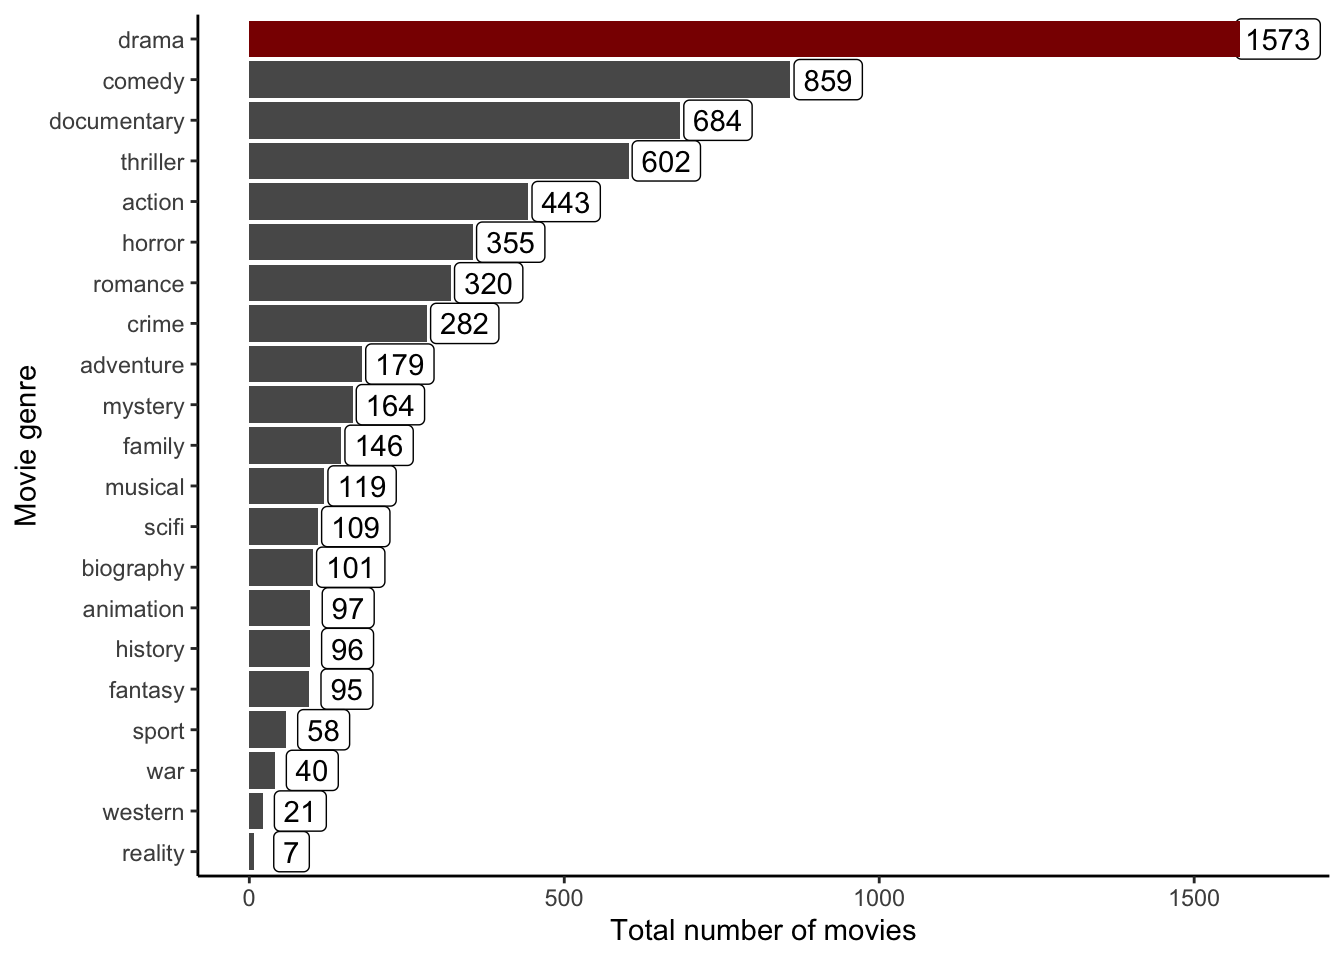
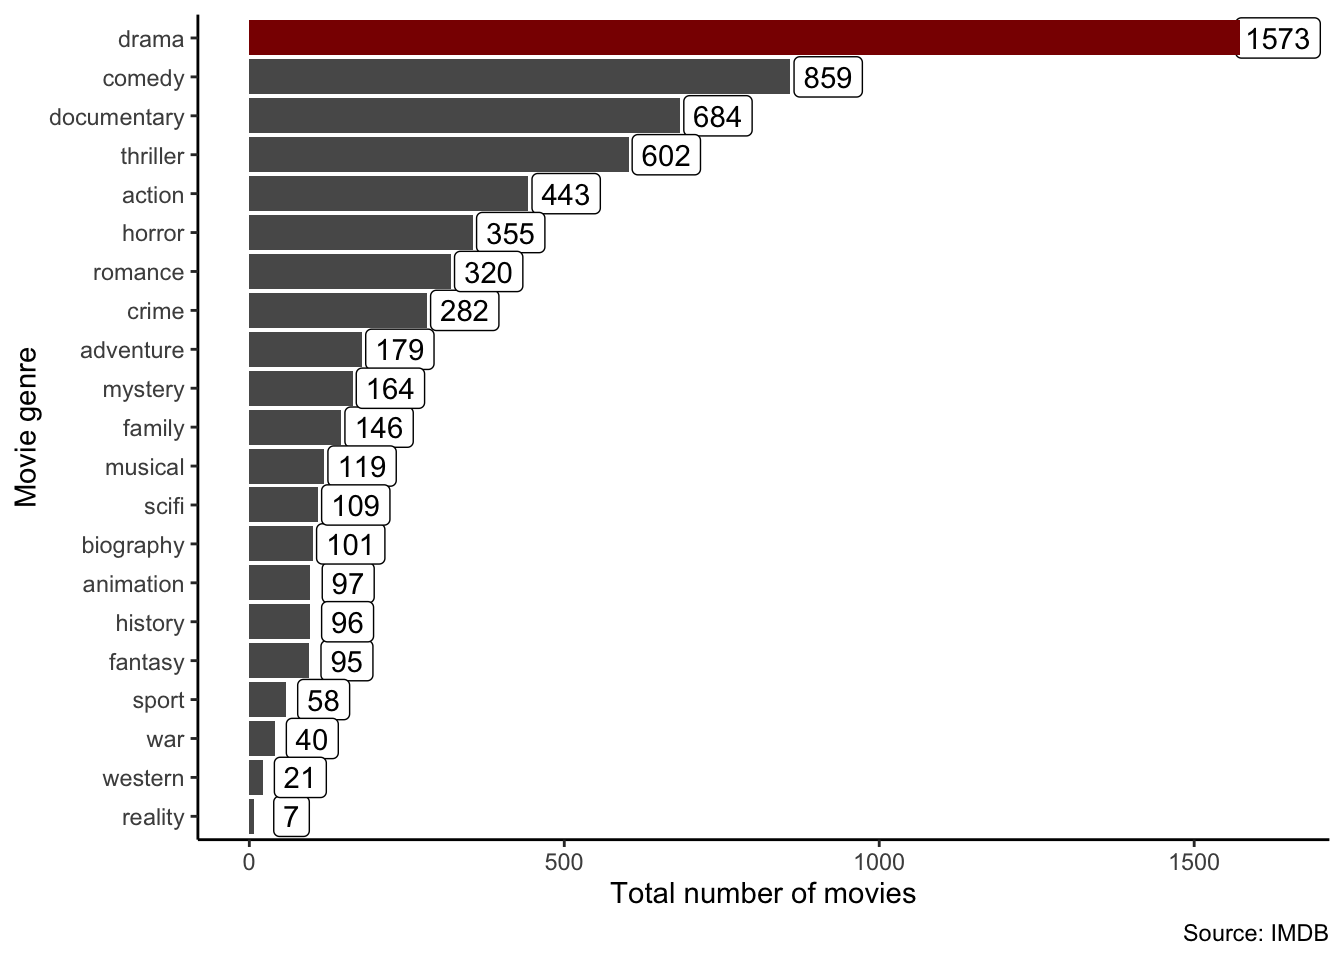
Average rating distribution explained

Changed region(s): [[0.0312, 0.0312, 1.0, 1.0], [0.0, 0.3438, 0.0312, 0.5625], [0.9062, 0.0, 0.9688, 0.0625]]

diff --git a/Q2.html b/Q2.html
@@ -208,7 +208,7 @@ Question C
 <span id="cb3-5"><a href="#cb3-5" aria-hidden="true" tabindex="-1"></a>pl1 <span class="ot">&lt;-</span> <span class="fu">ggplot</span>(<span class="at">data =</span> df_genre_long,<span class="fu">aes</span>(<span class="at">x =</span> <span class="fu">reorder</span>(Genre,</span>
 <span id="cb3-6"><a href="#cb3-6" aria-hidden="true" tabindex="-1"></a>                                                   Total_movies),</span>
 <span id="cb3-7"><a href="#cb3-7" aria-hidden="true" tabindex="-1"></a>                                       <span class="at">y =</span>Total_movies)) <span class="sc">+</span> <span class="fu">geom_col</span>() <span class="sc">+</span> <span class="fu">coord_flip</span>() <span class="sc">+</span> </span>
-<span id="cb3-8"><a href="#cb3-8" aria-hidden="true" tabindex="-1"></a>  <span class="fu">geom_label</span>(<span class="fu">aes</span>(<span class="at">label =</span> Total_movies),<span class="at">nudge_y =</span> <span class="dv">60</span>) <span class="sc">+</span> <span class="fu">geom_col</span>(<span class="at">data =</span> <span class="sc">~</span><span class="fu">filter</span>(.x, Genre <span class="sc">==</span> <span class="st">"drama"</span>),<span class="at">fill=</span><span class="st">'darkred'</span>) <span class="sc">+</span> <span class="fu">theme_classic</span>() <span class="sc">+</span> <span class="fu">labs</span>(<span class="at">x =</span> <span class="st">"Movie genre"</span>,<span class="at">y =</span> <span class="st">"Total number of movies"</span>)</span>
+<span id="cb3-8"><a href="#cb3-8" aria-hidden="true" tabindex="-1"></a>  <span class="fu">geom_label</span>(<span class="fu">aes</span>(<span class="at">label =</span> Total_movies),<span class="at">nudge_y =</span> <span class="dv">60</span>) <span class="sc">+</span> <span class="fu">geom_col</span>(<span class="at">data =</span> <span class="sc">~</span><span class="fu">filter</span>(.x, Genre <span class="sc">==</span> <span class="st">"drama"</span>),<span class="at">fill=</span><span class="st">'darkred'</span>) <span class="sc">+</span> <span class="fu">theme_classic</span>() <span class="sc">+</span> <span class="fu">labs</span>(<span class="at">x =</span> <span class="st">"Movie genre"</span>,<span class="at">y =</span> <span class="st">"Total number of movies"</span>) <span class="sc">+</span> <span class="fu">labs</span>(<span class="at">caption =</span> <span class="st">"Source: IMDB"</span>)</span>
 <span id="cb3-9"><a href="#cb3-9" aria-hidden="true" tabindex="-1"></a>pl1</span></code><button title="Copy to Clipboard" class="code-copy-button"><i class="bi"></i></button></pre></div>
 <div class="cell-output-display">
 <div id="fig-bar" class="quarto-figure quarto-figure-center anchored">
@@ -255,30 +255,41 @@ Question D
 <div class="cell">
 <div class="sourceCode cell-code" id="cb6"><pre class="sourceCode r code-with-copy"><code class="sourceCode r"><span id="cb6-1"><a href="#cb6-1" aria-hidden="true" tabindex="-1"></a>df_genre_long_rating<span class="sc">$</span>Average_rating <span class="ot">&lt;-</span> <span class="fu">round</span>(df_genre_long_rating<span class="sc">$</span>Average_rating,<span class="dv">1</span>)</span>
 <span id="cb6-2"><a href="#cb6-2" aria-hidden="true" tabindex="-1"></a></span>
-<span id="cb6-3"><a href="#cb6-3" aria-hidden="true" tabindex="-1"></a><span class="fu">ggdotchart</span>(df_genre_long_rating, <span class="at">y =</span> <span class="st">"Average_rating"</span>, </span>
-<span id="cb6-4"><a href="#cb6-4" aria-hidden="true" tabindex="-1"></a>           <span class="at">x =</span> <span class="st">"Genre"</span>,</span>
-<span id="cb6-5"><a href="#cb6-5" aria-hidden="true" tabindex="-1"></a>           <span class="at">color =</span> <span class="st">"Genre"</span>,                       </span>
-<span id="cb6-6"><a href="#cb6-6" aria-hidden="true" tabindex="-1"></a>           <span class="at">add =</span> <span class="st">"segments"</span>,</span>
-<span id="cb6-7"><a href="#cb6-7" aria-hidden="true" tabindex="-1"></a>           <span class="at">add.params =</span> <span class="fu">list</span>(<span class="at">color =</span> <span class="st">"lightgray"</span>, <span class="at">size =</span> <span class="dv">2</span>),                             </span>
-<span id="cb6-8"><a href="#cb6-8" aria-hidden="true" tabindex="-1"></a>           <span class="at">dot.size =</span> <span class="dv">8</span>,</span>
-<span id="cb6-9"><a href="#cb6-9" aria-hidden="true" tabindex="-1"></a>           <span class="at">rotate=</span><span class="cn">TRUE</span>,</span>
-<span id="cb6-10"><a href="#cb6-10" aria-hidden="true" tabindex="-1"></a>           <span class="at">label =</span> <span class="st">"Average_rating"</span>,</span>
-<span id="cb6-11"><a href="#cb6-11" aria-hidden="true" tabindex="-1"></a>           <span class="at">group =</span> <span class="st">"Genre"</span>,                                </span>
-<span id="cb6-12"><a href="#cb6-12" aria-hidden="true" tabindex="-1"></a>           <span class="at">font.label =</span> <span class="fu">list</span>(<span class="at">color =</span> <span class="st">"black"</span>, <span class="at">size =</span> <span class="dv">7</span>, </span>
-<span id="cb6-13"><a href="#cb6-13" aria-hidden="true" tabindex="-1"></a>                             <span class="at">vjust =</span> <span class="dv">0</span>, <span class="at">face =</span> <span class="st">'bold'</span>),               </span>
-<span id="cb6-14"><a href="#cb6-14" aria-hidden="true" tabindex="-1"></a>           <span class="at">ggtheme =</span> <span class="fu">theme_economist</span>()                        </span>
-<span id="cb6-15"><a href="#cb6-15" aria-hidden="true" tabindex="-1"></a>           ) <span class="sc">+</span> <span class="fu">theme</span>(<span class="at">legend.position =</span> <span class="st">"none"</span>,<span class="at">panel.background =</span> <span class="fu">element_rect</span>(<span class="at">fill =</span> <span class="st">'cornsilk'</span>),<span class="at">axis.text =</span> <span class="fu">element_text</span>(<span class="at">face =</span> <span class="st">"bold"</span>)) <span class="sc">+</span></span>
-<span id="cb6-16"><a href="#cb6-16" aria-hidden="true" tabindex="-1"></a>  <span class="fu">geom_hline</span>(<span class="at">yintercept =</span> <span class="dv">0</span>, <span class="at">linetype =</span> <span class="dv">2</span>, <span class="at">color =</span> <span class="st">"lightgray"</span>) <span class="sc">+</span> <span class="fu">labs</span>(<span class="at">y =</span> <span class="st">"Average rating of each genre"</span>, </span>
-<span id="cb6-17"><a href="#cb6-17" aria-hidden="true" tabindex="-1"></a>                                                                       <span class="at">x=</span> <span class="st">"Movie genre"</span>,</span>
-<span id="cb6-18"><a href="#cb6-18" aria-hidden="true" tabindex="-1"></a>                                                                       <span class="at">caption =</span> <span class="st">"Source: IMDB"</span>) <span class="sc">+</span> <span class="fu">ggtitle</span>(<span class="st">"Average rating of each genre for movies in 2023"</span>) </span></code><button title="Copy to Clipboard" class="code-copy-button"><i class="bi"></i></button></pre></div>
+<span id="cb6-3"><a href="#cb6-3" aria-hidden="true" tabindex="-1"></a>df_genre_sorted <span class="ot">&lt;-</span> df_genre_long_rating <span class="sc">%&gt;%</span> <span class="fu">arrange</span>(Average_rating)</span>
+<span id="cb6-4"><a href="#cb6-4" aria-hidden="true" tabindex="-1"></a></span>
+<span id="cb6-5"><a href="#cb6-5" aria-hidden="true" tabindex="-1"></a><span class="fu">ggdotchart</span>(df_genre_sorted, <span class="at">y =</span> <span class="st">"Average_rating"</span>, </span>
+<span id="cb6-6"><a href="#cb6-6" aria-hidden="true" tabindex="-1"></a>           <span class="at">x =</span> <span class="st">"Genre"</span>,</span>
+<span id="cb6-7"><a href="#cb6-7" aria-hidden="true" tabindex="-1"></a>           <span class="at">color =</span> <span class="st">"Average_rating"</span>,                       </span>
+<span id="cb6-8"><a href="#cb6-8" aria-hidden="true" tabindex="-1"></a>           <span class="at">add =</span> <span class="st">"segments"</span>,</span>
+<span id="cb6-9"><a href="#cb6-9" aria-hidden="true" tabindex="-1"></a>           <span class="at">add.params =</span> <span class="fu">list</span>(<span class="at">color =</span> <span class="st">"lightgray"</span>, <span class="at">size =</span> <span class="dv">2</span>),                             </span>
+<span id="cb6-10"><a href="#cb6-10" aria-hidden="true" tabindex="-1"></a>           <span class="at">dot.size =</span> <span class="dv">8</span>,</span>
+<span id="cb6-11"><a href="#cb6-11" aria-hidden="true" tabindex="-1"></a>           <span class="at">rotate=</span><span class="cn">TRUE</span>,</span>
+<span id="cb6-12"><a href="#cb6-12" aria-hidden="true" tabindex="-1"></a>           <span class="at">label =</span> <span class="st">"Average_rating"</span>,</span>
+<span id="cb6-13"><a href="#cb6-13" aria-hidden="true" tabindex="-1"></a>           <span class="at">group =</span> <span class="st">"Genre"</span>,                                </span>
+<span id="cb6-14"><a href="#cb6-14" aria-hidden="true" tabindex="-1"></a>           <span class="at">font.label =</span> <span class="fu">list</span>(<span class="at">color =</span> <span class="st">"white"</span>, <span class="at">size =</span> <span class="dv">8</span>, </span>
+<span id="cb6-15"><a href="#cb6-15" aria-hidden="true" tabindex="-1"></a>                             <span class="at">vjust =</span> <span class="dv">0</span>, <span class="at">face =</span> <span class="st">'bold'</span>),               </span>
+<span id="cb6-16"><a href="#cb6-16" aria-hidden="true" tabindex="-1"></a>           <span class="at">ggtheme =</span> <span class="fu">theme_economist</span>()                        </span>
+<span id="cb6-17"><a href="#cb6-17" aria-hidden="true" tabindex="-1"></a>           ) <span class="sc">+</span> <span class="fu">theme</span>(<span class="at">legend.position =</span> <span class="st">"none"</span>,<span class="at">panel.background =</span> <span class="fu">element_rect</span>(<span class="at">fill =</span> <span class="st">'cornsilk'</span>),<span class="at">axis.text =</span> <span class="fu">element_text</span>(<span class="at">face =</span> <span class="st">"bold"</span>)) <span class="sc">+</span></span>
+<span id="cb6-18"><a href="#cb6-18" aria-hidden="true" tabindex="-1"></a>  <span class="fu">geom_hline</span>(<span class="at">yintercept =</span> <span class="dv">0</span>, <span class="at">linetype =</span> <span class="dv">2</span>, <span class="at">color =</span> <span class="st">"lightgray"</span>) <span class="sc">+</span> <span class="fu">labs</span>(<span class="at">y =</span> <span class="st">"Average rating of each genre"</span>, </span>
+<span id="cb6-19"><a href="#cb6-19" aria-hidden="true" tabindex="-1"></a>                                                                       <span class="at">x=</span> <span class="st">"Movie Genre"</span>,</span>
+<span id="cb6-20"><a href="#cb6-20" aria-hidden="true" tabindex="-1"></a>                                                                       <span class="at">caption =</span> <span class="st">"Source: IMDB"</span>) <span class="sc">+</span> <span class="fu">ggtitle</span>(<span class="st">"Average rating of each genre for movies released in 2023"</span>) </span></code><button title="Copy to Clipboard" class="code-copy-button"><i class="bi"></i></button></pre></div>
 <div class="cell-output-display">
-<div id="fig-broad" class="quarto-figure quarto-figure-center anchored">
+<div id="fig-genre" class="quarto-figure quarto-figure-center anchored">
 <figure class="figure">
-<p><img src="Q2_files/figure-html/fig-broad-1.png" class="img-fluid figure-img" width="672"></p>
-<figcaption class="figure-caption">Figure&nbsp;2: PhD graduates in each broad field</figcaption>
+<p><img src="Q2_files/figure-html/fig-genre-1.png" class="img-fluid figure-img" width="672"></p>
+<figcaption class="figure-caption">Figure&nbsp;2: Average rating of each genre for movies released in 2023</figcaption>
 </figure>
 </div>
 </div>
+</div>
+<div class="alert alert-block alert-warning">
+<p>Based on <a href="#fig-genre">Figure&nbsp;2</a>, we can observe that:</p>
+<ol type="1">
+<li>On average, movies of musical genre received the highest rating of 7.5. However, it must also be noted that there were only 119 movies of this genre released in the year of 2023.</li>
+<li>Movies of most common genres such as drama and comedy scored an average rating of 6.8 and 6.4 respectively.</li>
+<li>Documentaries which were one of the top 3 most common genres score a relatively high average rating of 7.4. This shows that most viewers rate documentaries higher than other common genres such as comedy and drama.</li>
+<li>Horror movies were observed to obtain the lowest average rating, indicating that the releases in 2023 have not been upto the mark.</li>
+</ol>
 </div>
 <ol start="5" type="a">
 <li>Plot ratings and number of votes, being careful as to which axis each should be plotted on. Summarise the distribution and what you learn.</li>
